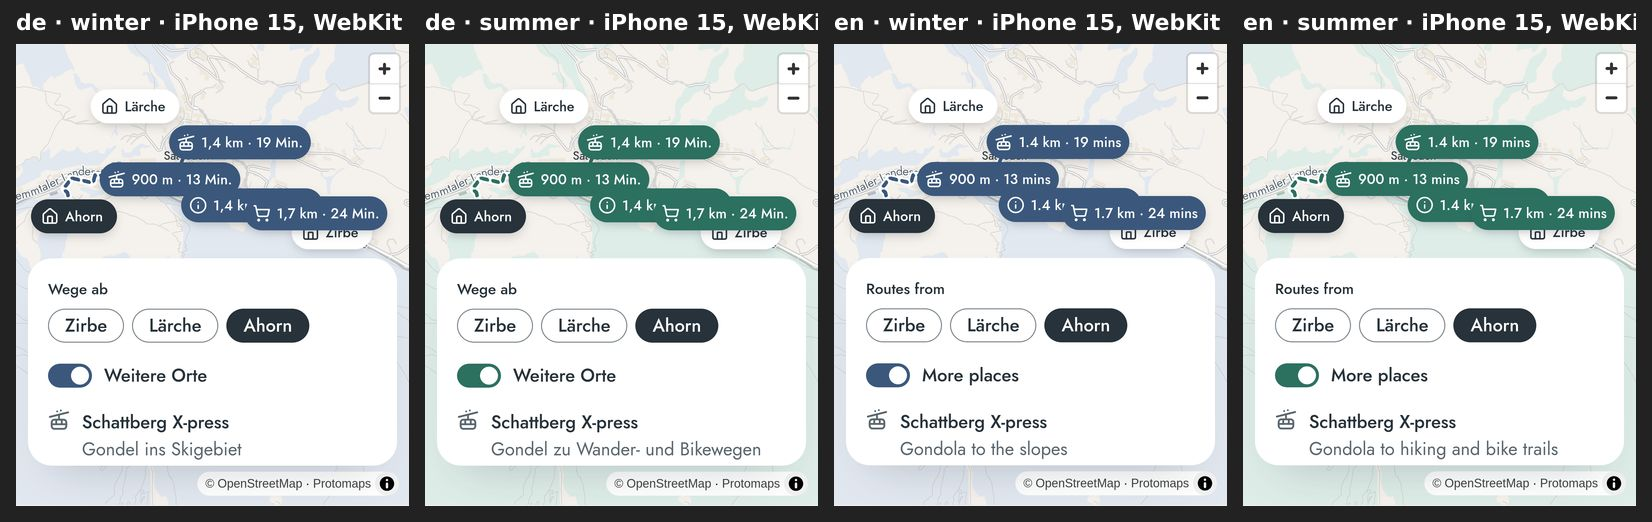
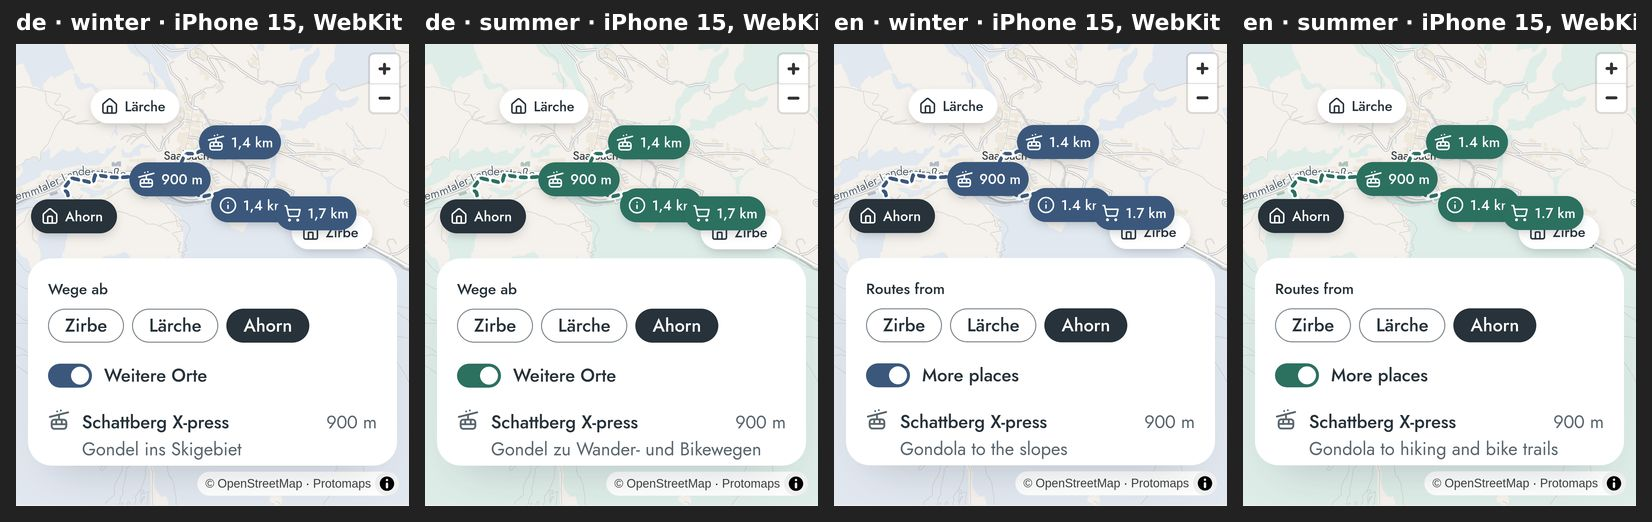
Let the home map's choice be cleared, show distances only, and recolour with the page
From the review of the first round:
- a second click on the chosen apartment, in the panel or on its pin,
  clears the choice; on a page of one apartment it stays chosen
- MapLibre's hint to hold Ctrl darkens the map only, not the panel
- pins and panel show the distance alone; a walking time depends on too
  much to promise, so the walk text and the routes' minutes go
- a change of season gives the map its new colours as the page starts
  to fade, from the transition's target, instead of after the fade

diff --git a/src/app/location-map.ts b/src/app/location-map.ts
@@ -29,7 +29,7 @@ import site from '../content/generated/site';
 import { lucideName } from '../content/names';
 import type { Route } from '../content/schema';
 import { Season } from './season';
-import { fill, LANGUAGE, TEXTS } from './texts';
+import { LANGUAGE, TEXTS } from './texts';
 
 const map = site.map!;
 // Points of interest the map leaves out: the town's other places to stay.
@@ -144,7 +144,7 @@ function flavor(c: (name: string) => string): Flavor {
                   type="radio"
                   name="map-apartment"
                   [checked]="chosen() === apartment.slug"
-                  (change)="chosen.set(apartment.slug)"
+                  (click)="choose(apartment.slug)"
                 />
                 <span>{{ apartment.name }}</span>
               </label>
@@ -162,15 +162,15 @@ function flavor(c: (name: string) => string): Flavor {
           @for (place of shown(); track place.key) {
             <li>
               <ng-icon [name]="lucideName(place.icon)" aria-hidden="true" />
-              <div>
+              <div class="map-place-name">
                 <p class="font-medium">{{ texts.places[place.key]!.name }}</p>
-                @if (texts.places[place.key]![season.current()]; as note) {
-                  <p class="text-ink-soft">{{ note }}</p>
-                }
-                @if (walk(place.key); as walk) {
-                  <p class="text-ink-soft">{{ walk }}</p>
+                @if (route(place.key); as route) {
+                  <p class="text-ink-soft tabular-nums">{{ distance(route) }}</p>
                 }
               </div>
+              @if (texts.places[place.key]![season.current()]; as note) {
+                <p class="text-ink-soft">{{ note }}</p>
+              }
             </li>
           }
         </ul>
@@ -186,7 +186,7 @@ function flavor(c: (name: string) => string): Flavor {
           [attr.data-lat]="apartment.lat"
           [attr.data-lon]="apartment.lon"
           [attr.aria-pressed]="chosen() === apartment.slug"
-          (click)="chosen.set(apartment.slug)"
+          (click)="choose(apartment.slug)"
         >
           <ng-icon name="lucideHouse" aria-hidden="true" />{{ apartment.name }}
         </button>
@@ -202,7 +202,7 @@ function flavor(c: (name: string) => string): Flavor {
         >
           <ng-icon [name]="lucideName(place.icon)" />
           @if (route(place.key); as route) {
-            {{ short(route) }}
+            {{ distance(route) }}
           }
         </span>
       }
@@ -228,6 +228,11 @@ function flavor(c: (name: string) => string): Flavor {
         max-width: 120rem;
         margin-inline: auto;
         background: var(--color-ground);
+      }
+
+      /* Its own layers, such as the hint to zoom with Ctrl, stay under the panel. */
+      .map-canvas {
+        isolation: isolate;
       }
 
       /* MapLibre makes its container relative, outside the layers; a height keeps it filled. */
@@ -397,13 +402,25 @@ function flavor(c: (name: string) => string): Flavor {
         }
       }
 
+      /* A place's icon, its name with the distance at the end of the line, its text below. */
+      .map-place-name {
+        display: flex;
+        justify-content: space-between;
+        gap: 0.75rem;
+      }
+
       .map-places {
         display: grid;
         gap: 0.875rem;
 
         li {
-          display: flex;
-          gap: 0.75rem;
+          display: grid;
+          grid-template-columns: auto 1fr;
+          column-gap: 0.75rem;
+
+          > p {
+            grid-column: 2;
+          }
           --ng-icon__color: var(--color-ink-soft);
           --ng-icon__size: 1.375rem;
         }
@@ -429,8 +446,6 @@ export class LocationMap {
   protected readonly all = signal(false);
   protected readonly shown = computed(() => map.places.filter((p) => this.all() || !p.more));
   protected readonly drawn = signal<MapLibre | undefined>(undefined);
-  // The colours after a change of season, once the page's transition has ended.
-  private readonly colours = signal(0);
   private readonly injector = inject(Injector);
 
   constructor() {
@@ -536,14 +551,8 @@ export class LocationMap {
     effect(() => {
       this.chosen();
       this.all();
-      this.colours();
-      this.drawn()?.setStyle(this.style());
-    });
-    effect(() => {
       this.season.current();
-      void Promise.all(this.document.documentElement.getAnimations().map((a) => a.finished)).then(
-        () => this.colours.update((n) => n + 1),
-      );
+      this.drawn()?.setStyle(this.style());
     });
   }
 
@@ -551,33 +560,36 @@ export class LocationMap {
     return routes.find((r) => r.apartment === this.chosen() && r.place === place);
   }
 
-  protected walk(place: string) {
-    const route = this.route(place);
-    return route && fill(this.texts.walk, this.measures(route));
+  // On a page with one apartment it stays chosen; elsewhere a second click clears the choice.
+  protected choose(slug: string) {
+    this.chosen.set(this.chosen() === slug && !this.apartment() ? undefined : slug);
   }
 
-  // On the place's pin, beside its icon.
-  protected short(route: Route) {
-    const { distance, time } = this.measures(route);
-    return `${distance} · ${time}`;
-  }
-
-  private measures({ meters, minutes }: { meters: number; minutes: number }) {
-    const unit = (value: number, name: string) =>
-      new Intl.NumberFormat(this.language.tag, {
-        style: 'unit',
-        unit: name,
-        maximumFractionDigits: 1,
-      }).format(value);
-    return {
-      distance: meters < 1000 ? unit(meters, 'meter') : unit(meters / 1000, 'kilometer'),
-      time: unit(minutes, 'minute'),
-    };
+  protected distance({ meters }: Route) {
+    const [value, unit] = meters < 1000 ? [meters, 'meter'] : [meters / 1000, 'kilometer'];
+    return new Intl.NumberFormat(this.language.tag, {
+      style: 'unit',
+      unit,
+      maximumFractionDigits: 1,
+    }).format(value);
   }
 
   private style(): StyleSpecification {
-    const css = getComputedStyle(this.document.documentElement);
-    const c = (name: string) => css.getPropertyValue(`--color-${name}`).trim();
+    // A change of season fades the accents on <html>: the map takes the colours they fade to, and
+    // fades as long, so that it changes with the page.
+    const html = this.document.documentElement;
+    const css = getComputedStyle(html);
+    const fading = html
+      .getAnimations()
+      .filter((a): a is CSSTransition => a instanceof CSSTransition);
+    const c = (name: string) => {
+      const property = `--color-${name}`;
+      const effect = fading.find((a) => a.transitionProperty === property)
+        ?.effect as KeyframeEffect;
+      return String(
+        effect?.getKeyframes().at(-1)?.[property] ?? css.getPropertyValue(property),
+      ).trim();
+    };
     const shown = this.shown().map((place) => place.key);
     const lines = routes
       .filter((r) => r.apartment === this.chosen() && shown.includes(r.place))
@@ -602,7 +614,7 @@ export class LocationMap {
     return {
       version: 8,
       'font-faces': { theme: map.font },
-      transition: { duration: 300 },
+      transition: { duration: Number(fading[0]?.effect?.getComputedTiming().duration ?? 0) },
       sources: {
         town: {
           type: 'vector',

diff --git a/e2e/map.spec.ts b/e2e/map.spec.ts
@@ -1,6 +1,7 @@
 import { readdirSync, readFileSync } from 'node:fs';
 import AxeBuilder from '@axe-core/playwright';
 import { expect, test, type Page } from '@playwright/test';
+import sharp from 'sharp';
 
 const panel = (page: Page) => page.locator('.map-panel');
 const places = (page: Page) => panel(page).locator('.map-places li');
@@ -46,18 +47,51 @@ test("a pin or the panel chooses an apartment, whose routes' distances show", as
   await page.setViewportSize({ width: 1280, height: 900 });
   await openMap(page);
   await expect(places(page)).toHaveCount(2);
-  await expect(places(page).first()).not.toContainText('on foot');
+  await expect(places(page).first()).not.toContainText(' m');
   await page.getByRole('button', { name: 'Ahorn' }).click();
   await expect(panel(page).getByRole('radio', { name: 'Ahorn' })).toBeChecked();
-  await expect(places(page).first()).toContainText('900 m, 13 mins on foot');
-  await expect(page.locator('.map-place').first()).toContainText('900 m · 13 mins');
+  await expect(places(page).first()).toContainText('900 m');
+  await expect(page.locator('.map-place').first()).toHaveText('900 m');
   await panel(page).getByText('Zirbe').click();
   await expect(page.getByRole('button', { name: 'Zirbe' })).toHaveAttribute('aria-pressed', 'true');
   await expect(page.getByRole('button', { name: 'Ahorn' })).toHaveAttribute(
     'aria-pressed',
     'false',
   );
-  await expect(places(page).first()).toContainText('1.1 km, 15 mins on foot');
+  await expect(places(page).first()).toContainText('1.1 km');
+});
+
+test('a second click on the chosen apartment clears the choice', async ({ page }) => {
+  await page.setViewportSize({ width: 1280, height: 900 });
+  await openMap(page);
+  const radio = panel(page).getByRole('radio', { name: 'Ahorn' });
+  await panel(page).getByText('Ahorn').click();
+  await expect(radio).toBeChecked();
+  await panel(page).getByText('Ahorn').click();
+  await expect(radio).not.toBeChecked();
+  await expect(page.locator('.map-place').first()).toHaveText('');
+  const pin = page.getByRole('button', { name: 'Lärche' });
+  await pin.click();
+  await expect(pin).toHaveAttribute('aria-pressed', 'true');
+  await pin.click();
+  await expect(pin).toHaveAttribute('aria-pressed', 'false');
+  await expect(panel(page).getByRole('radio', { name: 'Lärche' })).not.toBeChecked();
+});
+
+test("the map's hint to hold Ctrl while scrolling stays under the panel", async ({ page }) => {
+  await page.setViewportSize({ width: 1280, height: 900 });
+  await openMap(page);
+  const hint = page.locator('.maplibregl-cooperative-gesture-screen');
+  await page.locator('.maplibregl-canvas').hover({ position: { x: 800, y: 300 } });
+  await page.mouse.wheel(0, 40);
+  await expect(hint).toHaveClass(/maplibregl-show/);
+  await expect(hint).toHaveCSS('opacity', '1');
+  // The panel's white ground stays white: the hint's dark veil lies only on the map.
+  const shot = await panel(page).screenshot();
+  const { data, info } = await sharp(shot).raw().toBuffer({ resolveWithObject: true });
+  // A pixel of the padding above the panel's first line, away from its round corners.
+  const at = (8 * info.width + Math.round(info.width / 2)) * info.channels;
+  expect(Math.min(...data.subarray(at, at + 3))).toBeGreaterThan(240);
 });
 
 test('the switch adds the other places, with their pins', async ({ page }) => {
@@ -100,7 +134,7 @@ test('without WebGL the panel stands alone and works', async ({ page }) => {
   await page.goto('/en');
   await scrollToMap(page);
   await panel(page).getByText('Ahorn').click();
-  await expect(places(page).first()).toContainText('900 m, 13 mins on foot');
+  await expect(places(page).first()).toContainText('900 m');
   await expect(page.locator('.location-map')).not.toHaveAttribute('data-drawn');
   await expect(page.locator('.map-pin').first()).toBeHidden();
   expect(errors).toEqual([]);

diff --git a/src/content/schema.ts b/src/content/schema.ts
@@ -395,13 +395,12 @@ export const textsSchema = z.strictObject({
   }),
   // The map's wording: the panel's, MapLibre's own (its title, controls and the hints shown when
   // a scroll or one finger would move the map), and each place by its key with its name and a
-  // text for each season the site lists. {distance} and {time} in walk are filled in by the page.
+  // text for each season the site lists.
   map: z
     .strictObject({
       label: text,
       from: text,
       more: text,
-      walk: text,
       zoomIn: text,
       zoomOut: text,
       attribution: text,
@@ -453,7 +452,6 @@ export interface Route {
   apartment: string;
   place: string;
   meters: number;
-  minutes: number;
   line: [number, number][];
 }
 export type Site = Omit<

diff --git a/docs/content.md b/docs/content.md
@@ -144,12 +144,12 @@ content. The application has no wording, no colour and no typeface of its own. T
   the site lists, such as `"winter": "Gondola to the slopes"`. How the map is built is
   [ADR 14](adr/0014-the-map.md).
 - **The map's wording** (`map` in a texts file, beside `places`): `label` names the map for screen
-  readers; `from` heads the panel's choice of apartment and `more` labels its switch; `walk` takes
-  `{distance}` and `{time}`, which the page writes in the page's language ("900 m", "1.4 km", "13
-  mins"). `zoomIn`, `zoomOut` and `attribution` name the map's buttons, and `gestures` holds the
-  hints the map shows when a scroll without Ctrl (`windows`) or ⌘ (`mac`), or one finger (`touch`),
-  would move it. The map writes its labels in the theme's typeface: the first `.woff2` file in
-  `fonts/` that `theme.css` names, which a site with a map must have.
+  readers; `from` heads the panel's choice of apartment and `more` labels its switch. The page
+  writes each walk's distance in its own language, such as "900 m" or "1,4 km". `zoomIn`, `zoomOut`
+  and `attribution` name the map's buttons, and `gestures` holds the hints the map shows when a
+  scroll without Ctrl (`windows`) or ⌘ (`mac`), or one finger (`touch`), would move it. The map
+  writes its labels in the theme's typeface: the first `.woff2` file in `fonts/` that `theme.css`
+  names, which a site with a map must have.
 - **The map's tiles** are `map/tiles/<build>/`, cut out of a
   [Protomaps](https://maps.protomaps.com/builds/) planet build of OpenStreetMap at zoom 12 to 15
   inside the box, with `map/tiles.json` naming the build, the box and the number of tiles. They are
